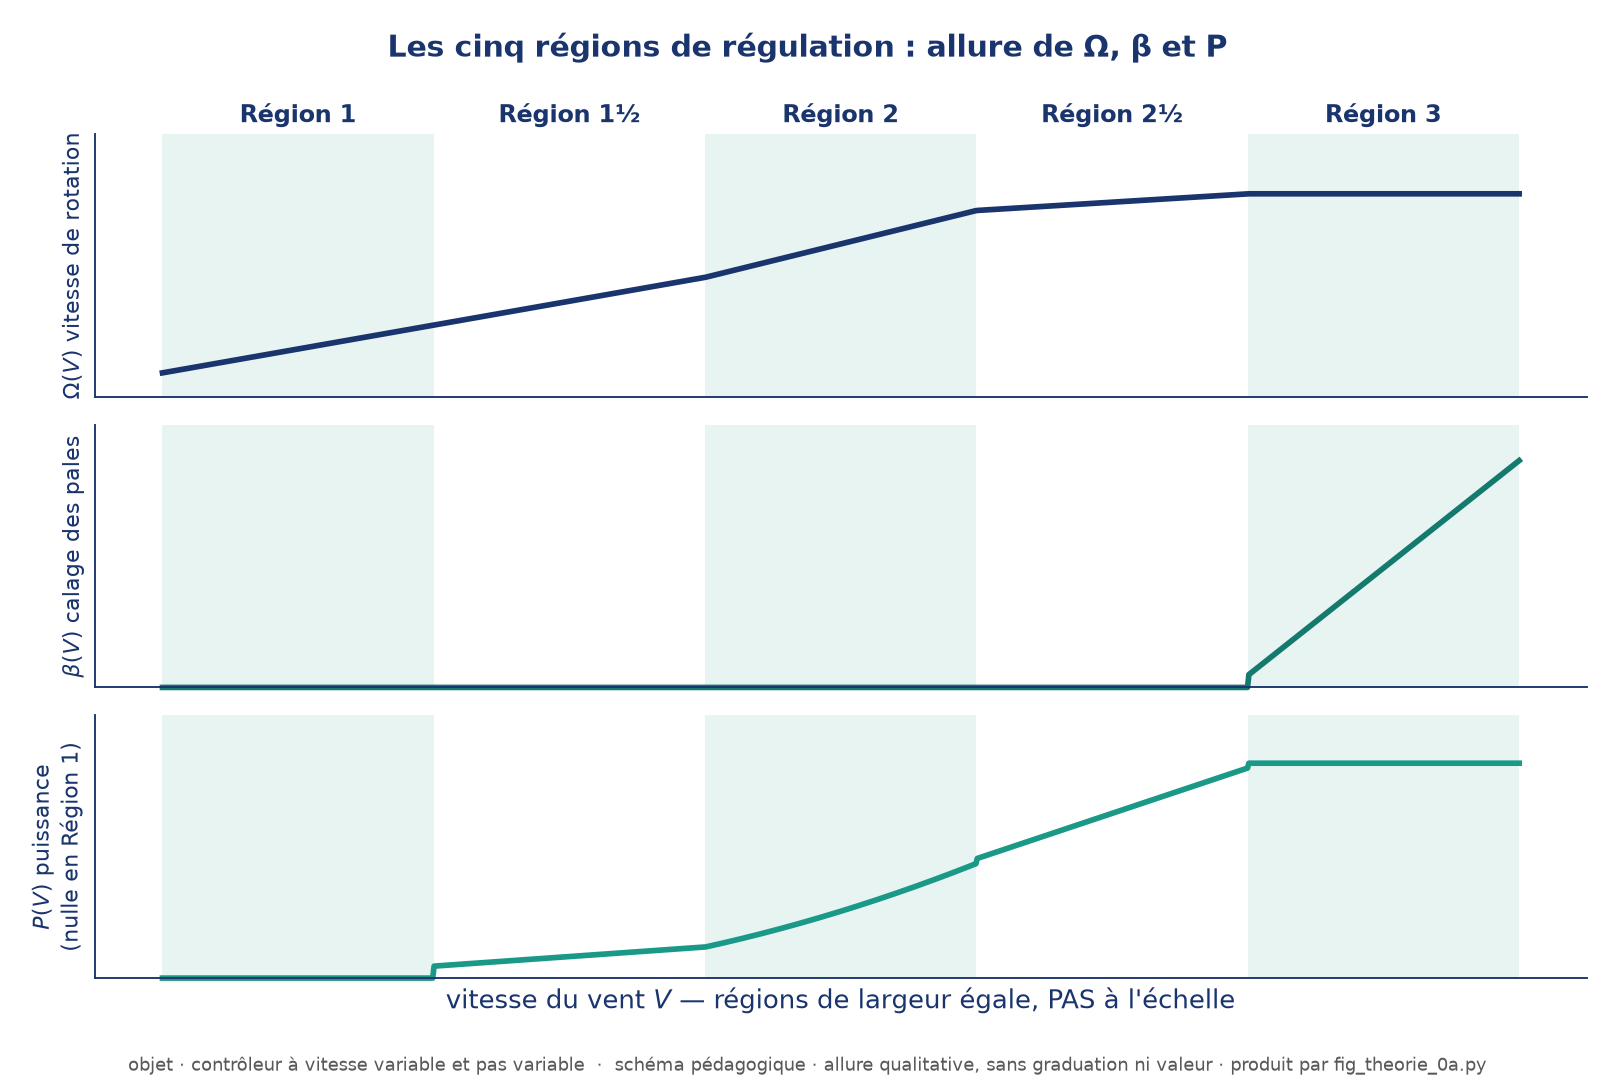
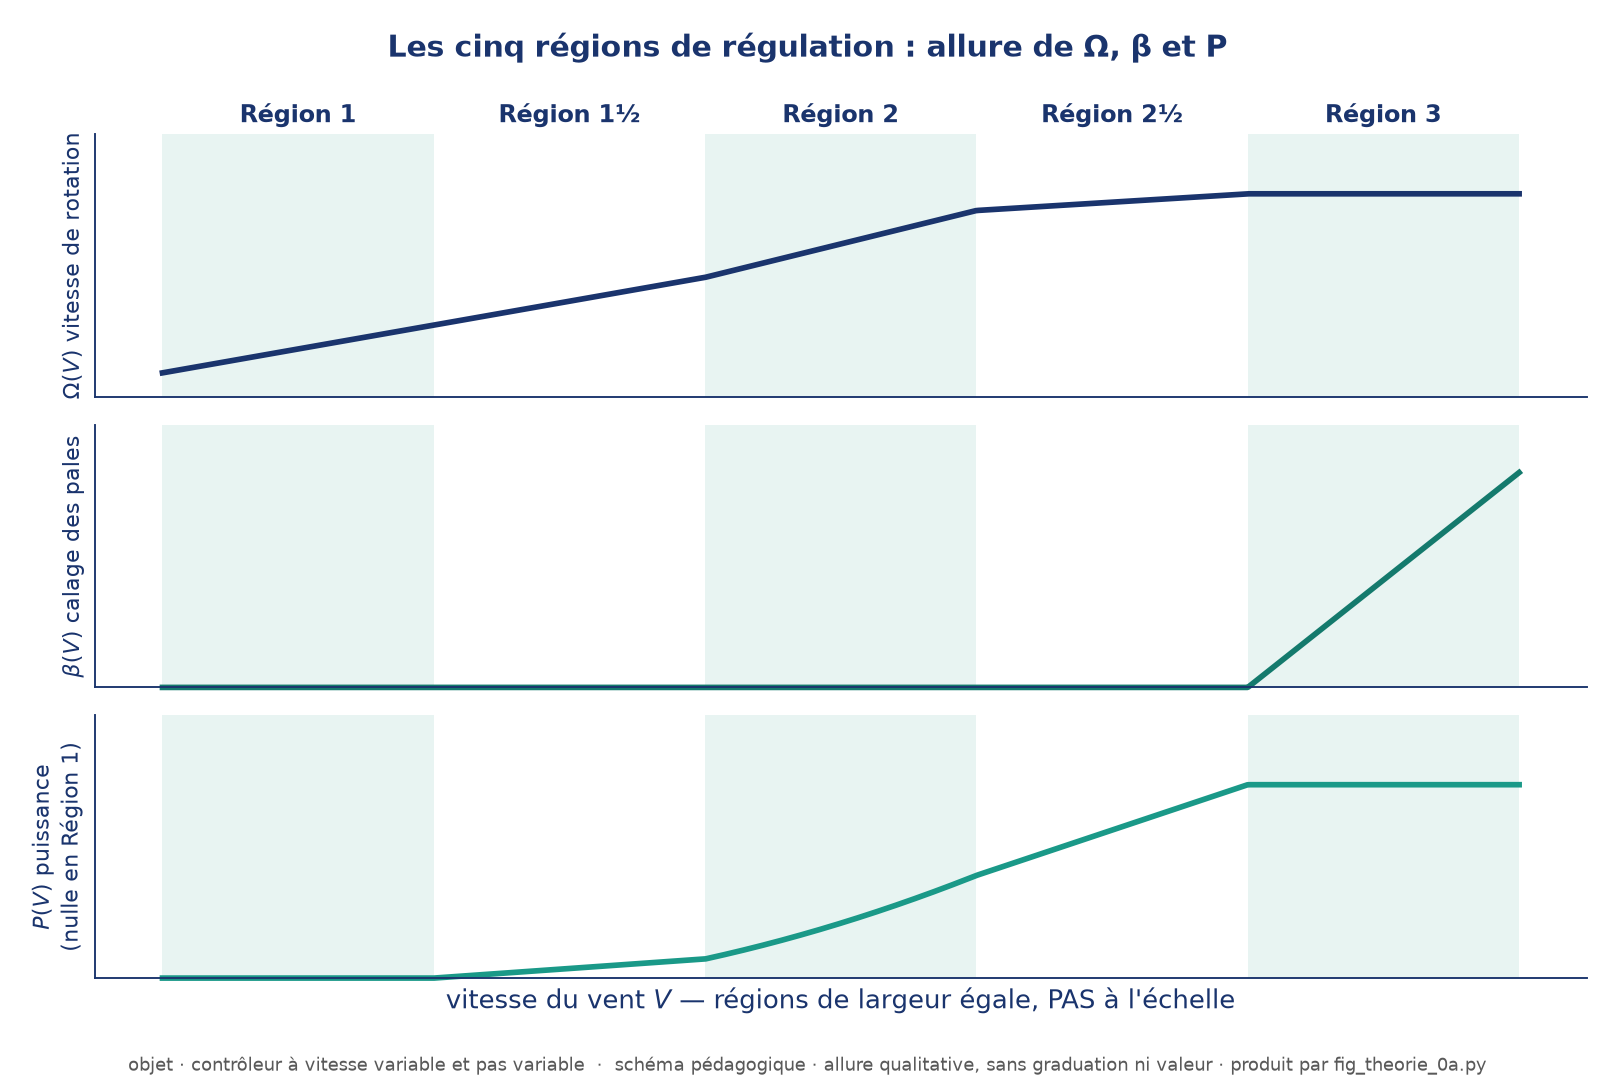
LOT F : corrections de relecture (Limites de F1, lambda* de conception, ecart Jonkman chiffre, figure 005 continue)

diff --git a/fiches/F1_Aero-regulation.md b/fiches/F1_Aero-regulation.md
@@ -43,7 +43,7 @@ du modèle les met toutes en œuvre. Elles se repèrent à la **vitesse de rotat
   que **vous calculerez** (voir « Méthode »).
 Les trois suivantes :
 - **Region 2** (de `VS_Rgn2Sp` jusqu'au régime nominal) : pitch fixe (souvent proche de 0°), le couple
-  générateur est piloté pour maintenir `λ` à sa valeur optimale `λ*` (celle qui maximise `Cp`) —
+  générateur est piloté pour maintenir `λ` à sa valeur de consigne `λ*` (la valeur de conception de Jonkman, 7,55, pour laquelle le gain `VS_Rgn2K` est réglé ; la courbe `Cp(λ)` est plate au voisinage de son maximum) —
   la vitesse de rotation suit donc le vent : `Ω(V) = λ*·V/R`.
 - **Region 3** (au-dessus du vent nominal) : la puissance est plafonnée à la puissance nominale,
   `Ω` est maintenue constante (régime nominal), c'est le **pitch** qui augmente pour réduire `Cp`
@@ -109,8 +109,9 @@ Côté rotor, le couple équivalent est `N · Q_gen(N·Ω)`.
 **2. La courbe `Cp(λ)` de la NREL 5 MW à calage nul.** Jonkman 2009 ne donne que le point maximal (`Cp = 0,482`
 à `λ = 7,55`, §7.2 p.19). La courbe ci-dessous est **calculée sur le modèle du dépôt** (OpenFAST v5.0.0, AeroDyn v15,
 rotor à vitesse imposée, calage 0°, `V` = 8 m/s au moyeu, cisaillement 0,11 comme F01 ; script
-`outils/courbe_cp_nrel5mw.py`, données `data/cp_lambda_nrel5mw_pitch0.csv`). Son maximum (≈ 0,47 vers `λ = 7`) diffère
-de quelques pour cent du point de Jonkman : on utilise la courbe du dépôt pour rester cohérent avec les cas F01 et F02.
+`outils/courbe_cp_nrel5mw.py`, données `data/cp_lambda_nrel5mw_pitch0.csv`). Son maximum (≈ 0,47 vers `λ = 7`) est inférieur de 3 à 4 % au point de Jonkman. Variables qui diffèrent
+d'un calcul de Jonkman : outil (AeroDyn v15 de ce dépôt), cisaillement 0,11, ombre de la tour, inclinaison de l'arbre et
+précône du modèle du dépôt ; pales rigides ici. On utilise donc la courbe du dépôt, plate entre `λ = 7` et `λ = 8`, pour rester cohérent avec les cas F01 et F02. Interpolation : linéaire ou spline, au choix (écart sans effet sur le résultat à 1 % près).
 
 | λ | 1 | 2 | 3 | 4 | 5 | 6 | 7 | 7,55 | 8 | 9 | 10 | 11 | 12 | 13 | 14 | 15 | 16 |
 |---|---|---|---|---|---|---|---|---|---|---|---|---|---|---|---|---|---|
@@ -232,9 +233,9 @@ Sur l'IEA 15 MW, mêmes données et hypothèses que ci-dessus. Corrigé :
   DBEMT (`Wake_Mod=2`)** — le modèle dynamique du sillage n'est pas actif. En vent turbulent ou
   en régime transitoire rapide (échelon de F02), la réponse aérodynamique instantanée peut
   différer d'un calcul DBEMT ou d'une mesure réelle (cf `tutorials/prise_en_main/README.md`).
-- Les coefficients `Cp`/`Ct` utilisés ici sont des ordres de grandeur usuels pour ce type de
-  machine, **pas des valeurs tirées d'une table `Cp(λ,β)` du modèle** — une vérification plus
-  fine nécessiterait d'extraire cette table (sortie `RtAeroCp`/`RtAeroCt` d'AeroDyn).
+- Le `Ct ≈ 0,8` de l'estimation de poussée est un ordre de grandeur usuel, **pas une valeur tirée d'une table
+  `Ct(λ,β)` du modèle** (sortie `RtAeroCt` d'AeroDyn). La courbe `Cp(λ)` à calage nul, elle, est calculée sur le
+  modèle du dépôt (section « Region 1½ ») ; seul le calage 0° est couvert, pas `Cp(λ, β)` complète.
 
 ## Pièges
 

diff --git a/ENONCE.md b/ENONCE.md
@@ -127,7 +127,7 @@ Le projet couvre l'essentiel de l'UE. Geotechnical Data (CM 4 h), la conférence
    - vérifier : `openfast -v` doit afficher **`OpenFAST-v5.0.0`**. Une autre version = installation à reprendre.
 2. **Organisation d'un calcul** : fichiers de base du modèle / un dossier par cas de charge / un script de lancement. Lancer les cas LHEEA 01 (tour seule) et 02 (rotor libre) pour vérifier que tout fonctionne.
 3. **Lire un `.fst`** : pour chaque section, dire ce qu'on modifie pour débuter (durée, pas de temps, modules actifs, degrés de liberté, sorties) et ce qu'on laisse tel quel.
-4. **Régulation de l'éolienne NREL 5 MW, à la main** (fiche F1) : avec R = 63 m, vitesse en bout de pale maximale 80 m/s, régime nominal 12,1 tr/min, puissance nominale 5 MW et un TSR optimal de 7,55 (Jonkman 2009), construire le tableau vitesse de vent → vitesse de rotation → puissance, et identifier les zones de fonctionnement (Region 1½, 2, 2½, 3) et l'`Ω` attendu dans chaque région (loi `λ*·V/R` en Region 2, équilibre des couples en Region 1½).
+4. **Régulation de l'éolienne NREL 5 MW, à la main** (fiche F1) : avec R = 63 m, vitesse en bout de pale maximale 80 m/s, régime nominal 12,1 tr/min, puissance nominale 5 MW et un TSR optimal de 7,55 (Jonkman 2009), construire le tableau vitesse de vent → vitesse de rotation → puissance, et identifier les zones de fonctionnement (Region 1, 1½, 2, 2½, 3) et l'`Ω` attendu dans chaque région (loi `λ*·V/R` en Region 2, équilibre des couples en Region 1½).
 5. **Éolienne fixe (monopieu OC3), cas à vent constant et à échelon** :
 
 | Cas | Vent | Ce qu'on regarde |

diff --git a/seances/0a/README.md b/seances/0a/README.md
@@ -142,7 +142,7 @@ Doit se terminer par `OpenFAST terminated normally.`.
 
 Avec la fiche F1 : R = 63 m, vitesse de bout de pale maximale 80 m/s, régime nominal 12,1 tr/min,
 puissance nominale 5 MW, TSR optimal 7,55 (Jonkman 2009). Construisez le tableau vitesse de vent →
-vitesse de rotation → puissance, et identifiez les zones de fonctionnement (Region 1½, 2, 2½, 3), **avec l'`Ω` attendu dans chaque région** :
+vitesse de rotation → puissance, et identifiez les zones de fonctionnement (Region 1, 1½, 2, 2½, 3), **avec l'`Ω` attendu dans chaque région** :
 loi `λ*·V/R` en Region 2, **équilibre des couples** en Region 1½ (la fiche F1 donne la loi de la rampe du
 contrôleur, la courbe `Cp(λ)` du modèle à calage nul et la méthode). C'est la question Q0.1 du rendu R0.
 
